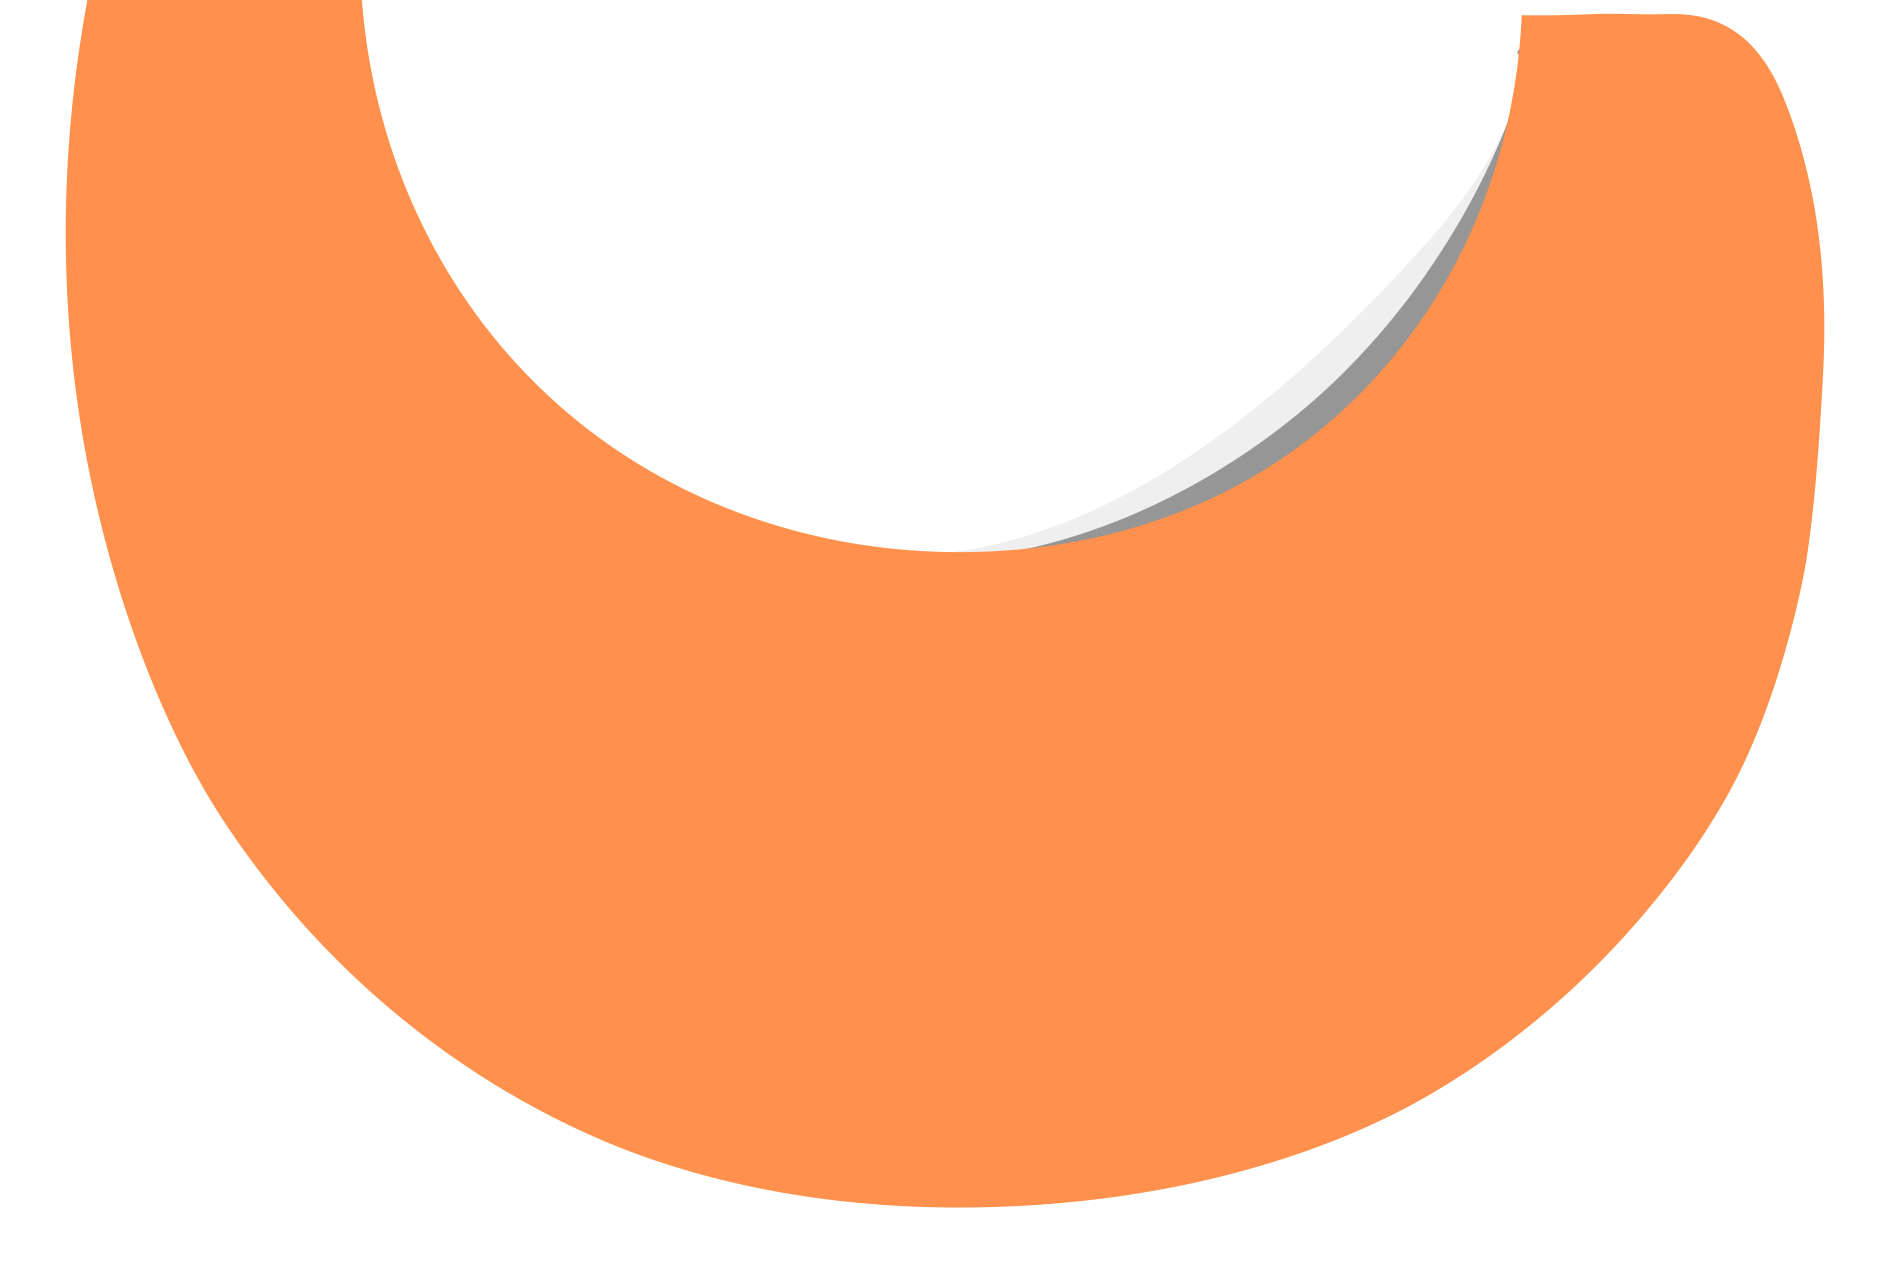
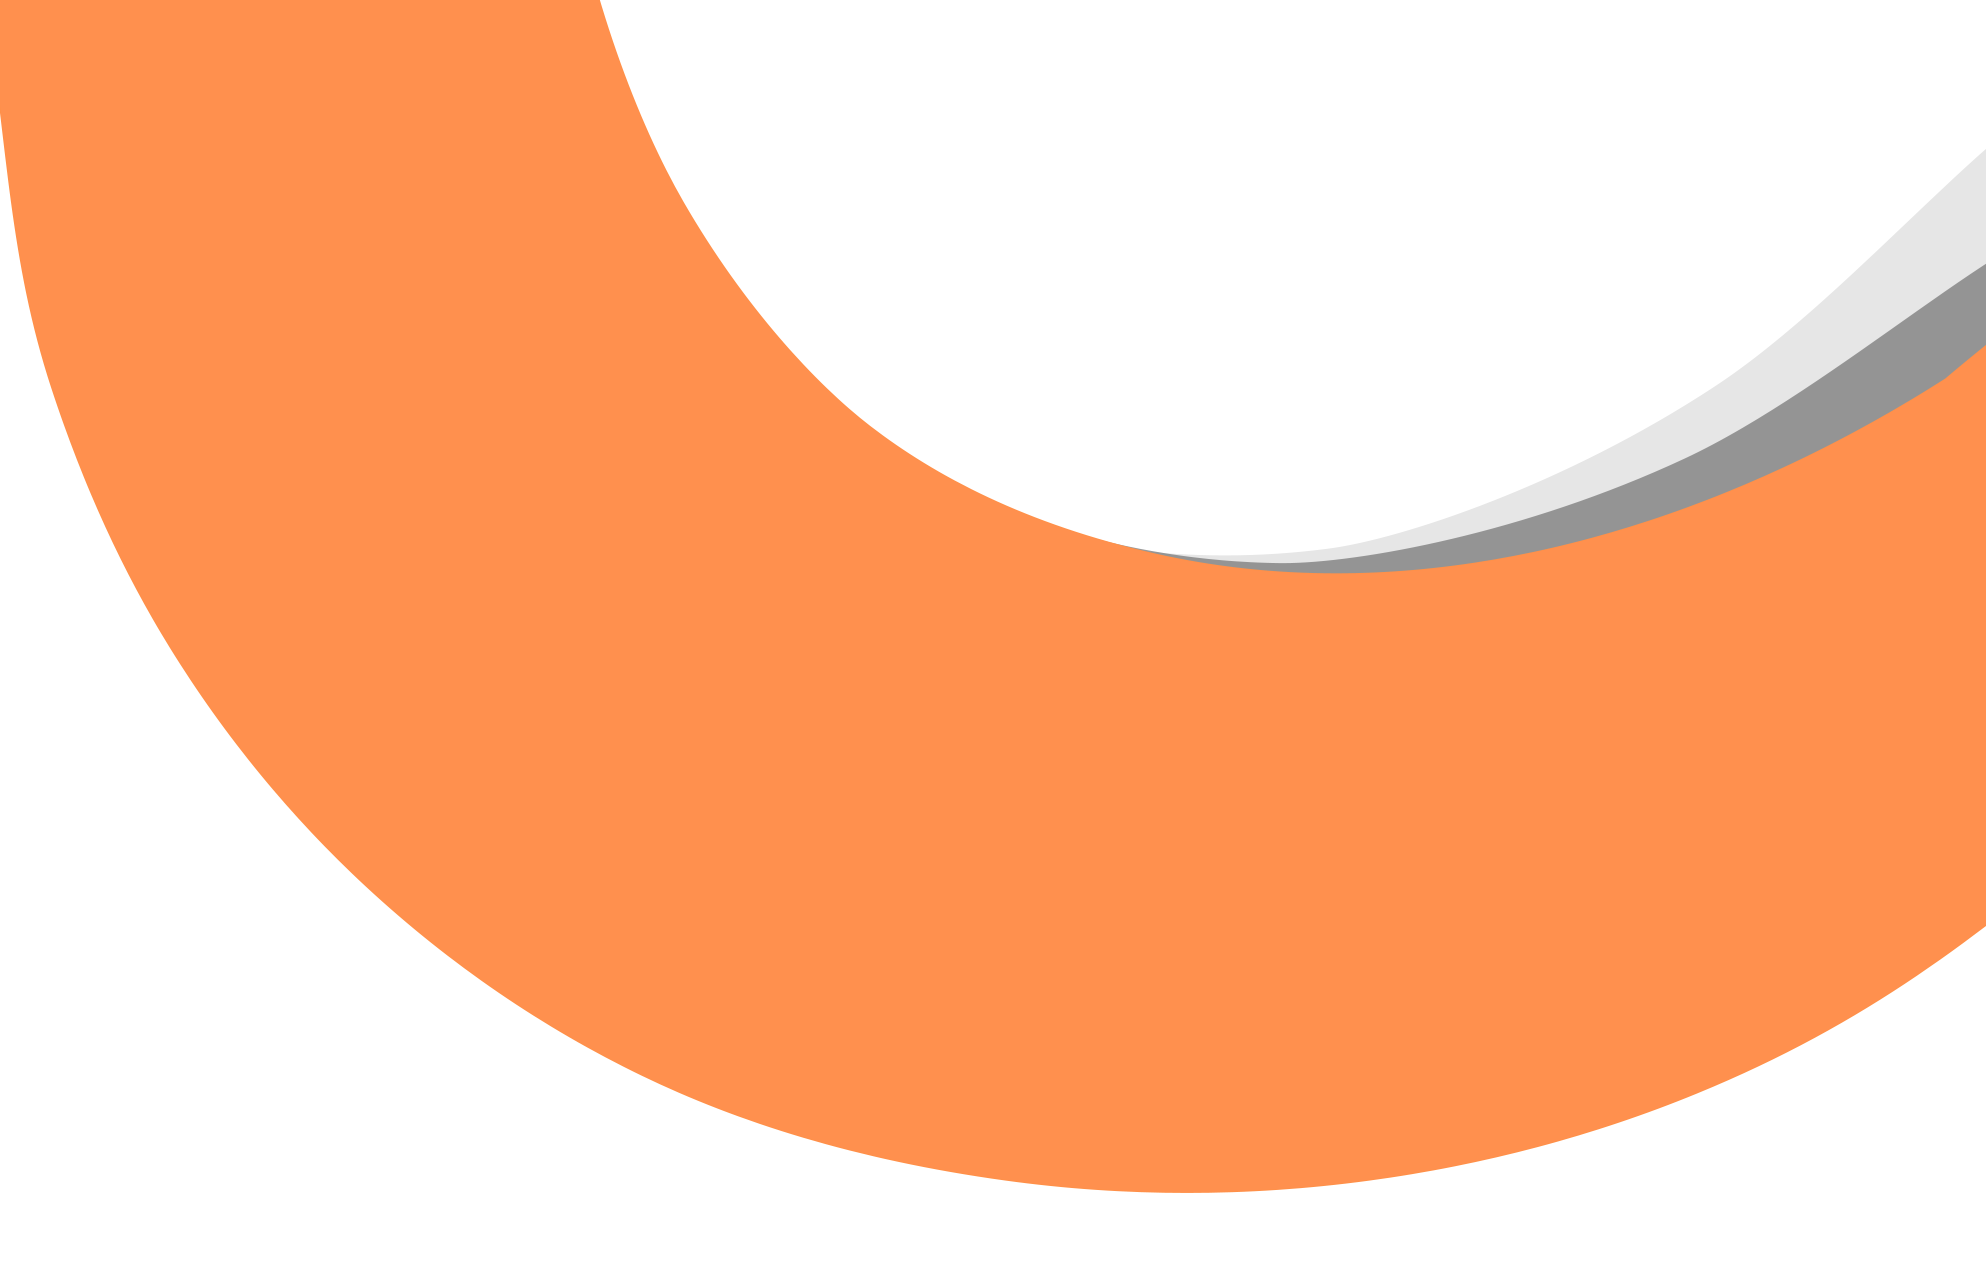
background

Changed region(s): [[0.1873, 0.0, 1.0, 0.9482], [0.0624, 0.4588, 0.5931, 0.9482], [0.0, 0.0, 0.0624, 0.3976]]

diff --git a/style.css b/style.css
@@ -377,7 +377,7 @@ i {
 
 #laptop_img{
   position:absolute;
-  top: 67%;
+  top: 64%;
   left: 40%;
   transform: translate(-50%, -50%);
   width: 50%;
@@ -386,7 +386,7 @@ i {
 
 #bg_img{
   position: absolute;
-  top: 37.5%;
+  top: 36%;
   left: 53%;
   transform: translate(-50%, -50%);
   width: 100%;
